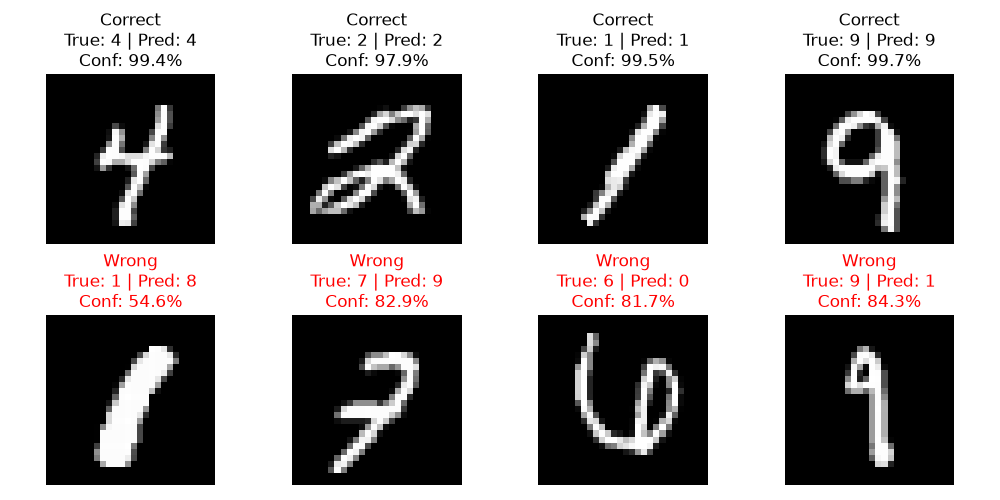
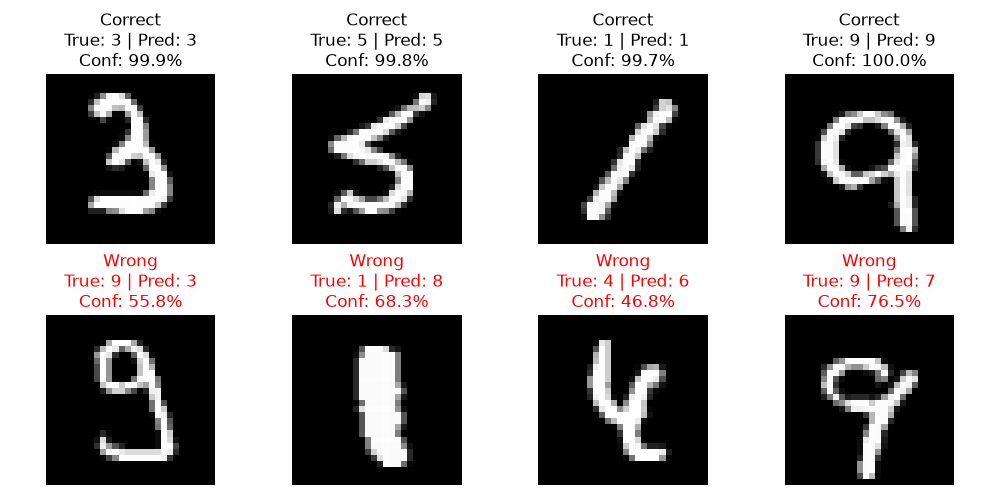
feat: 增加 CNN 训练时的数据增强，调整训练周期，更新测试用例

diff --git a/cnn.py b/cnn.py
@@ -18,7 +18,8 @@ ANALYSIS_IMAGE_PATH = PROJECT_DIR / "images" / "cnn_prediction_analysis.png"
 
 BATCH_SIZE = 64
 LEARNING_RATE = 0.01
-EPOCHS = 5
+EPOCHS = 10
+RANDOM_SEED = 42
 SAMPLES_PER_GROUP = 4
 CANVAS_SIZE = 28
 DIGIT_SIZE = 21
@@ -46,17 +47,34 @@ class CNN(nn.Module):
         return self.classifier(features)
 
 
+def create_transform(train):
+    if train:
+        return transforms.Compose(
+            [
+                transforms.RandomAffine(
+                    degrees=10,
+                    translate=(0.1, 0.1),
+                    scale=(0.9, 1.1),
+                    interpolation=transforms.InterpolationMode.BILINEAR,
+                ),
+                transforms.ToTensor(),
+            ]
+        )
+    return transforms.ToTensor()
+
+
 def create_data_loader(train, shuffle):
     dataset = datasets.MNIST(
         root=DATA_DIR,
         train=train,
         download=True,
-        transform=transforms.ToTensor(),
+        transform=create_transform(train),
     )
     data_loader = DataLoader(
         dataset,
         batch_size=BATCH_SIZE,
         shuffle=shuffle,
+        generator=torch.Generator().manual_seed(RANDOM_SEED) if shuffle else None,
     )
     return dataset, data_loader
 
@@ -72,6 +90,7 @@ def load_model():
 def train():
     import matplotlib.pyplot as plt
 
+    torch.manual_seed(RANDOM_SEED)
     train_dataset, train_loader = create_data_loader(train=True, shuffle=True)
     model = CNN()
     criterion = nn.CrossEntropyLoss()

diff --git a/tests/test_project.py b/tests/test_project.py
@@ -5,6 +5,7 @@ from unittest.mock import patch
 
 import torch
 from PIL import Image, ImageDraw
+from torchvision import transforms
 
 import cnn
 import mlp
@@ -35,6 +36,18 @@ class ModelTests(unittest.TestCase):
 
 
 class PreprocessingTests(unittest.TestCase):
+    def test_cnn_uses_augmentation_only_for_training(self):
+        train_transform = cnn.create_transform(train=True)
+        test_transform = cnn.create_transform(train=False)
+
+        self.assertTrue(
+            any(
+                isinstance(transform, transforms.RandomAffine)
+                for transform in train_transform.transforms
+            )
+        )
+        self.assertIsInstance(test_transform, transforms.ToTensor)
+
     def test_mlp_preprocessing_returns_expected_shape(self):
         image = create_digit_image(background=255, ink=0)
         image_batch, was_inverted = mlp.preprocess_image(image)

diff --git a/README.md b/README.md
@@ -95,6 +95,9 @@ python cnn.py analyze
 CNN 会把现实图片转换为灰度图，自动判断笔画颜色、去除灰色背景、裁剪
 数字、保持宽高比缩放，并根据笔画重心放入 28×28 黑色画布。
 
+训练 CNN 时会对训练图片随机旋转、平移和缩放，让模型适应更多现实书写
+方式；测试集不使用随机增强，保证每次评估使用相同的原始测试图片。
+
 现实图片建议只包含一个数字，并尽量保证背景均匀、笔画清晰、数字完整。
 模型置信度表示模型自身的确定程度，不代表预测一定正确。
 
@@ -126,6 +129,7 @@ python -m unittest discover -s tests -v
 测试覆盖：
 
 - MLP 和 CNN 的前向传播、输出 shape 与反向传播。
+- CNN 只在训练集启用随机数据增强。
 - 白底黑字、灰底白字、空白图片等预处理情况。
 - 临时保存并重新加载 `state_dict` 后的预测接口。
 
